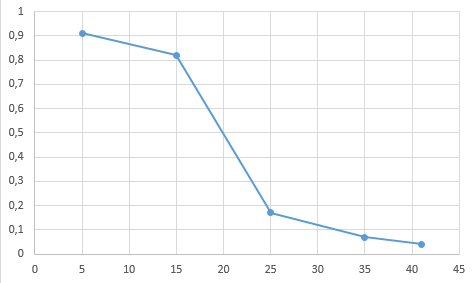
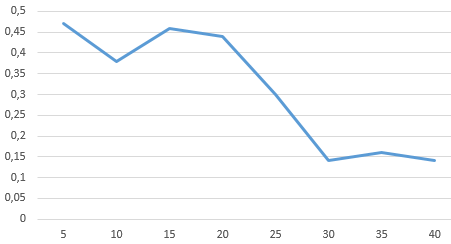
fix: improve lb1 example

diff --git a/lb/Simulation_Lab1/example.md b/lb/Simulation_Lab1/example.md
@@ -1,62 +1,71 @@
-## Імітаційне моделювання комп'ютерних систем
-## СПм-21-2, **Іванов Іван Іванович**
+## Комп'ютерні системи імітаційного моделювання
+## СПм-22-11, **Іванов Іван Іванович**
 ### Лабораторна робота №**1**. Опис імітаційних моделей та проведення обчислювальних експериментів
 
 <br>
 
-### Вибрана модель у середовищі NetLogo:
+### Варіант 0, модель у середовищі NetLogo:
 [Traffic Basic](http://www.netlogoweb.org/launch#http://www.netlogoweb.org/assets/modelslib/Sample%20Models/Social%20Science/Traffic%20Basic.nlogo)
 
 <br>
 
 ### Вербальний опис моделі:
-Симуляція руху автомобілів по шосе. Кожен автомобіль дотримується простого набору правил: він уповільнюється (гальмує), якщо бачить автомобіль, до якого наближається, і прискорюється (збільшує швідкість руху), якщо попереду не бачить перешкоди (автомобіля). Модель показує, як можуть утворюватися пробки навіть без ДТП та перехресть.
+Симуляція руху автомобілів по шосе. Кожен автомобіль моделюється агентом, який дотримується простого набору правил: він уповільнюється (гальмує), якщо наближається до автомобілю попереду, і прискорюється (збільшує швидкість руху), якщо попереду нема перешкоди (іншого автомобіля). Модель показує, як можуть утворюватися пробки навіть без ДТП та перехресть.
 
 ### Керуючі параметри:
 - **number-of-cars** визначає кількість агентів у середовищі моделювання, тобто, в даній моделі, кількість машин на замкнутому шосе.
-- **deceleration** визначає зменшення швидкості агента на кожному ігровому такті у разі присутності перешкоди перед ним.
-- **acceleration** визначає збільшення швидкості агента на кожному ігровому такті за відсутності перешкод перед агентом.
+- **deceleration** визначає зменшення швидкості агенту на кожному ігровому такті у разі присутності перешкоди перед ним.
+- **acceleration** визначає збільшення швидкості агенту на кожному ігровому такті за умови відсутності перешкод перед агентом.
 
 ### Внутрішні параметри:
-- **speed**. Швидкість агента (переміщення машини трасою). Може відрізнятись у кожної машини в різні моменти модельного часу.
-- **speed-limit**. Верхнє обмеження швидкості. Це загальний параметр для всіх агентів.
+- **speed**. Швидкість агенту (переміщення машини трасою). Може відрізнятись у кожної машини в різні моменти модельного часу.
+- **speed-limit**. Обмеження максимальної швидкості. Це загальний параметр для всіх агентів.
 - **speed-min**. Мінімальне значення швидкості агентів. Це загальний параметр для всіх агентів.
 
-### Критерії ефективності системи:
-- максимальна швидкість на поточному такті симуляції, тобто, швидкість найшвидшої на даний момент машини на трасі. Не може бути більше значення speed-limit.
+### Показники роботи системи:
+- максимальна швидкість на поточному такті симуляції, тобто, швидкість найшвидшої на даний момент машини на трасі. Не може перевищувати значення speed-limit.
 - найменша швидкість на поточному такті, тобто, швидкість найповільнішої в даний момент машини.
 - поточна швидкість машини, що відстежується (червона машина).
 
 ### Примітки:
-При налаштуваннях за замовчуванням автомобілі уповільнюються набагато швидше, ніж прискорюються.
+При налаштуваннях керуючих параметрів за замовчуванням, автомобілі уповільнюються набагато швидше, ніж прискорюються.
 
 ### Недоліки моделі:
-Відстеження агентом простору тільки безпосередньо перед собою, хоча доцільно враховувати наявність перешкод на більшій відстані та скидати швидкість поступово по мірі наближення, використовуючи вказане користувачем значення deceleration.
+Гальмування починається тільки безпосередньо перед перешкодою, що протирічить реальному досвіду. Відстеження агентом простору тільки безпосередньо перед собою, хоча доцільно враховувати наявність перешкод на більшій відстані та скидати швидкість поступово по мірі наближення, використовуючи вказане користувачем значення deceleration.
 
 <br>
 
 ## Обчислювальні експерименти
-
-### 1. Вплив завантаженості дороги на середню швидкість переміщення нею.
-Досліджується залежність середньої швидкості червоної (обраної) машини протягом заданого числа тактів від числа машин на трасі, зазначеного на початку симуляції. Експерименти проводяться при 5-41 машинах, з кроком 10, усього 5 симуляцій. Інші параметри мають значення за замовчуванням.
+*// тут наведено опис лише одного експерименту, задля скорочення прикладу. Пам'ятайте, що при реальному виконанні л/р потрібно описати щонайменше 3 експерименту.* 
+### 1. Вплив завантаженості дороги на середню швидкість переміщення нею
+Досліджується залежність середньої швидкості червоної (випадково обраної) машини протягом певної кількості тактів (100) від числа машин на трасі, зазначеного на початку симуляції.
+Експерименти проводяться при 5-40 машинах, з кроком 5, усього 8 симуляцій.  
+Інші керуючі параметри мають значення за замовчуванням:
+- **deceleration**: 0.026
+- **acceleration**: 0.0045
 
 <table>
 <thead>
 <tr><th>Кількість автомобілів</th><th>Середня швидкість</th></tr>
 </thead>
 <tbody>
-<tr><td>5</td><td>0,91</td></tr>
-<tr><td>15</td><td>0,82</td></tr>
-<tr><td>25</td><td>0,17</td></tr>
-<tr><td>35</td><td>0,07</td></tr>
-<tr><td>41</td><td>0,04</td></tr>
+<tr><td>5</td><td>0,47</td></tr>
+<tr><td>10</td><td>0,38</td></tr>
+<tr><td>15</td><td>0,46</td></tr>
+<tr><td>20</td><td>0,44</td></tr>
+<tr><td>25</td><td>0,30</td></tr>
+<tr><td>30</td><td>0,14</td></tr>
+<tr><td>35</td><td>0,16</td></tr>
+<tr><td>40</td><td>0,14</td></tr>
 </tbody>
 </table>
 
 ![Залежність середньої швидкості пересування від завантаженості траси](fig1.png)
-Графік наочно показує, що досягнення та утримання максимальної швидкості на більшій частині дороги можливе лише за її низької завантаженості, до 15 машин.
+Графік наочно показує, що утримання високої швидкості на більшій частині дороги можливе лише за її низької завантаженості, до 15-20 машин.
 
-### 2. Перевірка гіпотези про те, що початкове розміщення машин на трасі не впливає на ефективність руху.
-...
-### 3. Підбір значень параметрів deceleration та acceleration для уникнення пробок на трасі.
-...
+### 2. Перевірка гіпотези про те, що початкове розміщення машин на трасі не впливає на ефективність руху
+...  
+*// це як раз один з експериментів, що рекомендовано автором моделі. Але без корегування внутрішньої логіки моделі виконати таке дослідження неможливо - тобто таке можна розглядати у другій л/р. А у першій, найпростішим рішенням було б розглянути залежність швидкості від ступеня гальмування - аналогічно тому, як виконувалось дослідження у першому експерименті.*
+### 3. Підбір значень параметрів deceleration та acceleration для уникнення пробок на трасі
+...  
+*// також одне з цікавих досліджень, але не у контексті першої лабораторної роботи. Бо без засобів автоматизації це буде лише ручний перебір (у якому ніякої науки) можливих комбінації значень, яких дуже багато навіть для такій примітивній моделі. Такий експеримент був би доцільним у третій л/р, яка присвячена як раз підбору параметрів - тобто завданню оптимізації моделей. А у першій л/р, при виборі дослідження для третього експерименту, найпростішим рішенням було б діяти за аналогією з попередніми - і розглянути залежність середньої швидкості від значення прискорення.*
